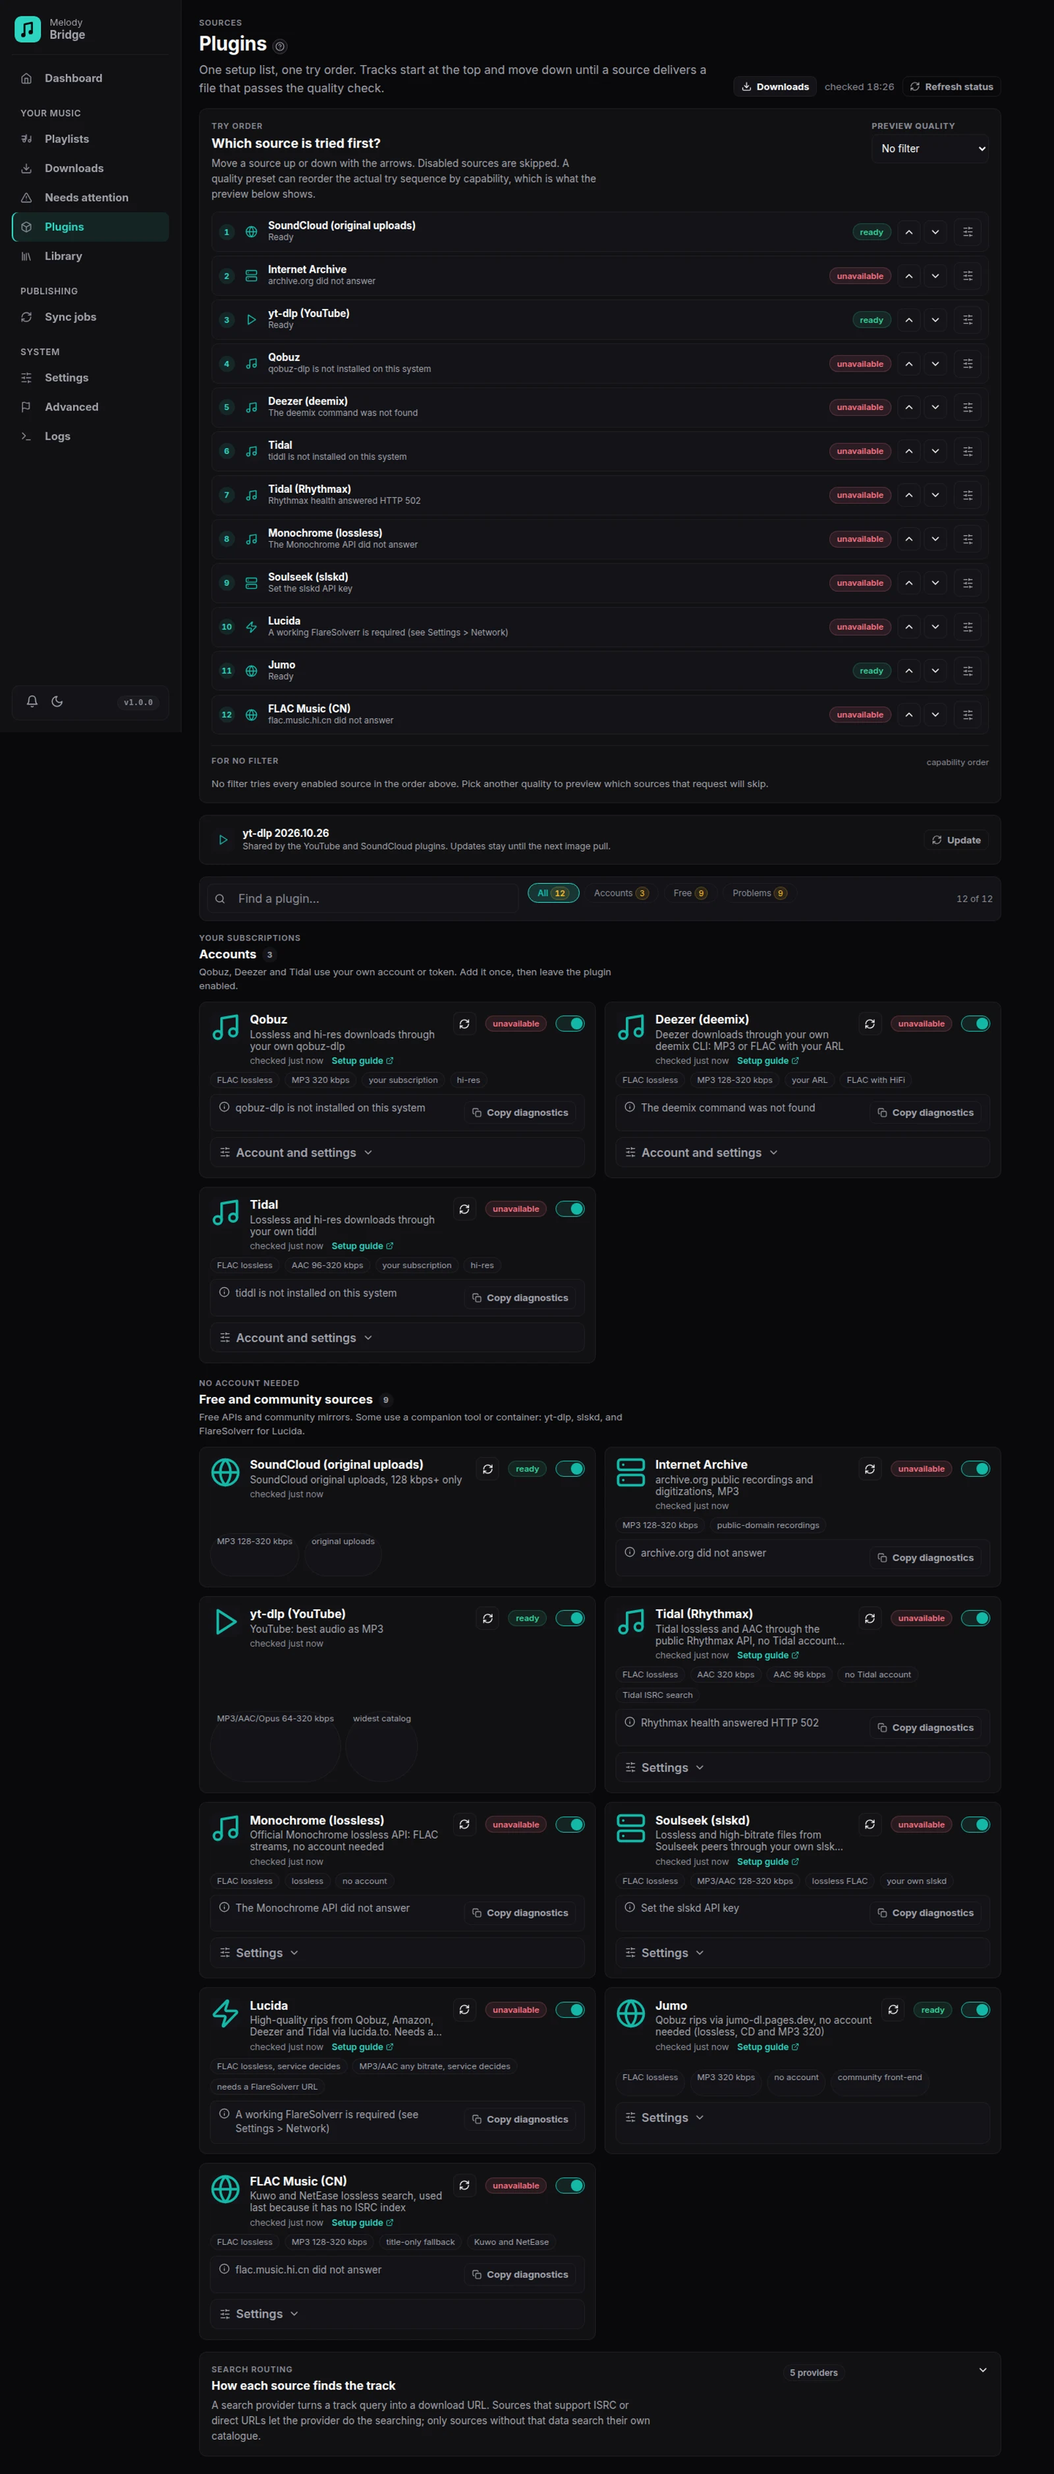
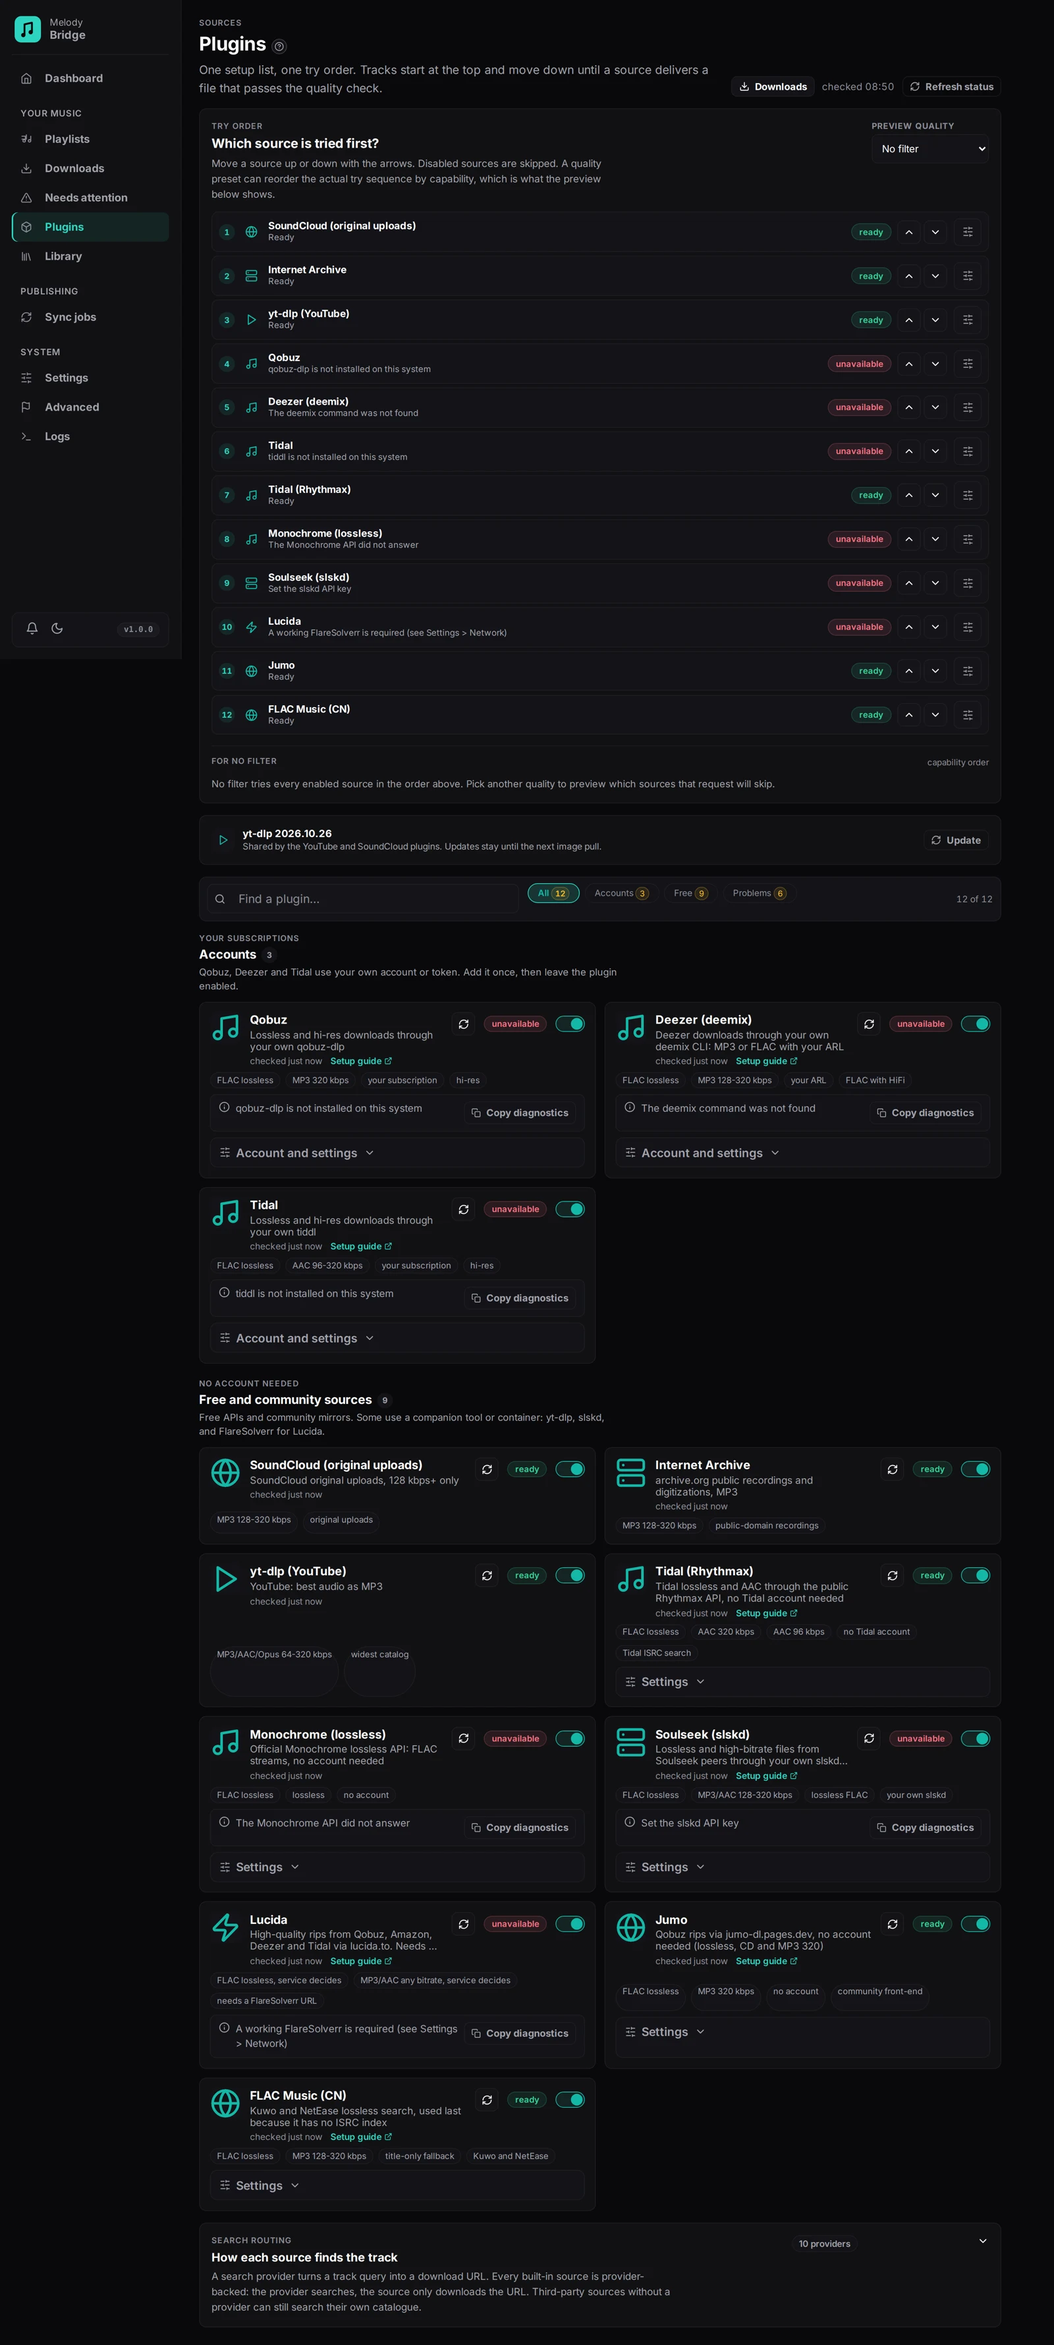
docs(search): document the provider-backed self-search sources
The Plugins panel now shows ten providers, including the five self-search ones. Drop the old claim that those sources search inside the downloader and refresh the screenshot.

diff --git a/docs/developer.md b/docs/developer.md
@@ -137,16 +137,19 @@ public interface ISearchProvider
 
 `DownloaderSearchInfo` declares the source's route. `Self` means the source
 searches its own catalogue with the listed data, `Provider` means a provider
-must resolve the URL, and `None` means direct URLs only. `FallbackOnly` keeps
-a source behind every ordinary source in the quality router, whatever its
-capabilities say.
+must resolve the URL, and `None` means direct URLs only. Every built-in source
+is `Provider`: the five self-search sources have their own providers too, and
+their downloaders only download a URL. `Self` remains for third-party plugins that
+still search inside the downloader. `FallbackOnly` keeps a source behind every
+ordinary source in the quality router, whatever its capabilities say.
 
 `SearchProviderRegistry` is the router. The waterfall and the manual source
 picker both call it instead of `IDownloader.SearchAsync` directly. It uses a
 provider for `Provider` sources, the source's own search for `Self` sources,
-and nothing for `None`. A provider that throws or times out is a miss, never
-a crash. The Plugins page renders the same metadata in
-`SearchProviderPanel`, so the map cannot drift from the routing rules.
+and nothing for `None`. No built-in source takes the `Self` path. A provider
+that throws or times out is a miss, never a crash. The Plugins page renders the
+same metadata in `SearchProviderPanel`, so the map cannot drift from the
+routing rules.
 
 The router validates its wiring. Duplicate provider ids and a provider that
 lists the same target twice throw at startup. A target that names no
@@ -161,18 +164,23 @@ Jumo answer for the Jumo downloader.
 Each target also carries a `SearchTier`: `Official`, `Ripper`,
 `UnofficialCatalog` or `SelfSearch`. `ProviderFirstOrder()` turns the target
 matrix into one rank per downloader: official targets first, then Lucida on
-their URLs, then Jumo and Monochrome, then the sources that search
-themselves. `DownloadManager` applies that rank after its fallback,
-controlled-quality and health ordering, so a degraded official source still
-loses to a healthy one. The `search_official_first` setting (Prefer official
+their URLs, then the unofficial catalogues. Self-search targets get no rank,
+so those sources keep the user's order after the ranked ones. `DownloadManager`
+applies that rank after its fallback, controlled-quality and health ordering,
+so a degraded official source still loses to a healthy one. The `search_official_first` setting (Prefer official
 sources on the Advanced page) defaults on; turning it off restores the pure
 source order.
 
-Every built-in catalogue has its own provider: `QobuzSearchProvider`,
-`DeemixSearchProvider`, `JumoSearchProvider` and `MonochromeSearchProvider`
-live in `MelodyBridge.Infrastructure/SearchProviders/`. Each owns the query to
+Every built-in source is provider-backed. The provider classes live in
+`MelodyBridge.Infrastructure/SearchProviders/`: `QobuzSearchProvider`,
+`DeemixSearchProvider`, `JumoSearchProvider`, `MonochromeSearchProvider`,
+`ArchiveOrgSearchProvider`, `FlacMusicSearchProvider`, `SlskdSearchProvider`,
+`SoundCloudSearchProvider` and `YtDlpSearchProvider`. Each owns the query to
 URL step and the ranking; the downloader keeps the download. Tidal's provider
-lives with its client in `Infrastructure/Tidal/`.
+lives with its client in `Infrastructure/Tidal/`. The five self-search
+providers (`archiveorg`, `flacmusic`, `slskd`, `soundcloud`, `ytdlp`) declare
+`SearchTier.SelfSearch`, so the official-first order leaves them where the user
+put them.
 
 Lucida deliberately has no provider. It consumes the official Qobuz, Tidal and
 Deezer URLs that those providers already resolved, so `LucidaSearchProvider` is
@@ -187,8 +195,10 @@ one and falls back to the text search.
 Where the search and the download share mutable state, a session class owns
 it so both sides see the same value: `QobuzSession` (token, tool config, auth
 verdict), `JumoSession` (client, region cache, availability) and
-`LucidaSession` (challenge solver, send with refresh, availability). Deezer
-and Monochrome had no shared state and need only their client and a base URL.
+`LucidaSession` (challenge solver, send with refresh, availability),
+`FlacMusicSession` (base URL, platform setting, health) and `SlskdSession`
+(API key, base URL, JSON plumbing, downloads folder). Deezer and Monochrome
+had no shared state and need only their client and a base URL.
 The provider and the downloader are registered as singletons over the same
 session, so a token rejection or a throttled search updates the plugin card
 immediately.
@@ -216,8 +226,9 @@ token rejection is reported as a miss and left uncached.
 
 `FallbackOnly` is used by `FlacMusicDownloader`. The flac.music.hi.cn source
 has no ISRC index and the site's 128 kbps tier sometimes serves AAC, so it is
-the last resort even for a Lossless request. Its `SearchInfo` is `Self` with
-text data; the Plugins page marks it as a fallback.
+the last resort even for a Lossless request. `FlacMusicSearchProvider` owns
+its title search, and its `SearchInfo` is `Provider` with text data; the
+Plugins page marks it as a fallback.
 
 `PluginCapabilities` is the plugin's honest manifest: every quality level it
 can deliver (container, the bitrate band it arrives in, whether the content is
@@ -316,25 +327,28 @@ Implement this to add a download source. Built-in plugins:
 |---|---|---|---|
 | `LucidaDownloader` | `lucida` | lucida.to (Qobuz NL, Amazon Music, Deezer, Tidal, SoundCloud, Yandex) | High quality rips; needs a working Cloudflare solver, otherwise skipped; no own searcher in the default composition, it consumes the official Qobuz, Tidal and Deezer URLs; single-track page tokens are base64-encoded twice and must be decoded before `/api/load`; the load API has no quality parameter, so its manifest is honest-but-uncontrollable |
 | `MonochromeDownloader` | `monochrome` | tracks.monochrome.st (official Monochrome API) | Lossless FLAC streams over a plain GET, no account needed; search hits carry an ISRC, and an exact match is accepted as that recording even when the title differs; the base URL is configurable per plugin for mirrors |
-| `SlskdDownloader` | `slskd` | Soulseek, through the user's own slskd instance | Lossless FLAC and high-bitrate MP3/AAC from peers; search and transfer run over slskd's REST API with an API key; locked files and undeclared containers are skipped; the finished file moves out of slskd's downloads folder, whose path the plugin reads from slskd's own options; unavailable until the URL and key are set and slskd is logged in |
+| `SlskdDownloader` | `slskd` | Soulseek, through the user's own slskd instance | Lossless FLAC and high-bitrate MP3/AAC from peers; `SlskdSearchProvider` searches the network over slskd's REST API, the downloader enqueues the transfer; locked files and undeclared containers are skipped; the finished file moves out of slskd's downloads folder, whose path the plugin reads from slskd's own options; unavailable until the URL and key are set and slskd is logged in |
 | `QobuzDownloader` | `qobuz` | qobuz-dlp (shipped in the Docker image) | Lossless and hi-res from a paid Qobuz plan; `QobuzSearchProvider` searches the official API (bundle scrape plus a user token) and also supplies Lucida and Jumo, the download runs through the CLI into a hidden per-track folder; the plugin seeds the CLI config (app id, private key, secrets) and its token file, so no interactive login is needed; unavailable until the command and a valid token are found |
 | `TidalDownloader` | `tidal` | tiddl (shipped in the Docker image) | Lossless and hi-res from the user's own Tidal session; the shared `TidalSearchProvider` resolves the URL (ISRC first), the download runs through `tiddl download url` with the tier mapped onto the requested band; unavailable until the command and a logged-in tiddl session are found, or when that session expired |
 | `RhythmaxDownloader` | `rhythmax` | tidal.odskyler.com (public Rhythmax hifi API) | No Tidal account needed; the same `TidalSearchProvider` supplies the URL, the plugin asks `/manifests` for a DASH stream, downloads the init and media segments, and remuxes FLAC (ffmpeg copy) or keeps AAC as m4a; LOW/HIGH/LOSSLESS map to 96/320/16-bit FLAC; the public account pool can report preview/dead/rate limited, which is surfaced as unavailability instead of retried forever |
-| `FlacMusicDownloader` | `flacmusic` | flac.music.hi.cn (Kuwo and NetEase) | Last-resort fallback with no ISRC index, so it searches its own catalogue by title; search and `getUrl` are POST endpoints with a short-lived sign, the audio comes direct from the CDN; FLAC and MP3 128/320, and some Kuwo 128 rows actually return AAC (the plugin reports the mismatch and the waterfall can try the other platform); `FallbackOnly` keeps it behind every curated source |
+| `FlacMusicDownloader` | `flacmusic` | flac.music.hi.cn (Kuwo and NetEase) | Last-resort fallback with no ISRC index; `FlacMusicSearchProvider` searches by title and the downloader consumes its URL; search and `getUrl` are POST endpoints with a short-lived sign, the audio comes direct from the CDN; FLAC and MP3 128/320, and some Kuwo 128 rows actually return AAC (the plugin reports the mismatch and the waterfall can try the other platform); `FallbackOnly` keeps it behind every curated source |
 | `DeemixDownloader` | `deemix` | deemix CLI (shipped in the Docker image, runs on Node) | Deezer MP3/FLAC with the user's ARL; the search runs against Deezer's public API, the download through the CLI; the ARL setting is written into deemix's config (through `DEEMIX_DATA_DIR`) before every run, so the CLI never prompts; runs are serialized and the finished file moves out of the downloads folder |
 | `JumoDownloader` | `jumo` | jumo-dl.pages.dev (community Qobuz front-end) | No account needed; uses the same Qobuz album and track ids as Qobuz, so the Qobuz provider can hand it a `jumo:` URL without a second search; the Jumo provider remains the fallback without a Qobuz token; stream descriptors come from the service's guarded API (request-context headers plus ECDH/AES-GCM encrypted responses), the audio comes direct from the signed Qobuz CDN URLs and is AES-CTR decrypted locally; lossless lands as native FLAC, MP3 320 as plain MP3; the service rate limits (429) and can refuse some networks (403), so the plugin reports unavailability instead of hammering it |
-| `SoundCloudDownloader` | `soundcloud` | SoundCloud (via yt-dlp `scsearch`) | Original uploads, often 320 kbps; top-5 ranked; rejects files under 128 kbps |
-| `ArchiveOrgDownloader` | `archiveorg` | Internet Archive (public JSON APIs) | Public-domain and community recordings; picks the matching file inside a multi-track item, not the first one; rejects files under 128 kbps |
-| `YtDlpDownloader` | `ytdlp` | YouTube (via yt-dlp) | Widest fallback; audio-only best stream, top-5 ranked by match and duration; explicit formats transcode to the requested cap |
+| `SoundCloudDownloader` | `soundcloud` | SoundCloud (via yt-dlp `scsearch`) | Original uploads, often 320 kbps; `SoundCloudSearchProvider` ranks the top five; the downloader is URL-only and rejects files under 128 kbps |
+| `ArchiveOrgDownloader` | `archiveorg` | Internet Archive (public JSON APIs) | Public-domain and community recordings; `ArchiveOrgSearchProvider` ranks the files inside every matching item, the downloader streams the chosen MP3; rejects files under 128 kbps |
+| `YtDlpDownloader` | `ytdlp` | YouTube (via yt-dlp) | Widest fallback; `YtDlpSearchProvider` ranks the top five by match and duration, the downloader fetches the URL; explicit formats transcode to the requested cap |
 
-The catalogue search for Qobuz, Deezer, Jumo and Monochrome sits in its own
-provider under `SearchProviders/`; the downloader only downloads. Their
-`SearchInfo` says `Provider` with the data the provider reads. Qobuz, Jumo and
-Lucida share a session with the downloader for token, region or solver state;
-Deezer and Monochrome need only their client and the base URL helper. Lucida is
-the exception: it is a pure URL consumer, so its `SearchInfo` declares `Url`
-data and it appears as a target of the official providers. A new source
-follows the same split: provider for query to URL, downloader for URL to file.
+The catalogue search for every built-in source sits in its own provider under
+`SearchProviders/`; the downloader only downloads. Tidal's provider lives with
+its client in `Infrastructure/Tidal/`. Their `SearchInfo` says `Provider` with
+the data the provider reads. Where the search and the download share state, a
+session class owns it: `QobuzSession`, `JumoSession` and `LucidaSession` for
+token, region or solver state, and `FlacMusicSession` and `SlskdSession` for the
+site or slskd connection. The rest need only a client or the shared yt-dlp
+process. Lucida is the exception: it is a pure URL consumer, so its `SearchInfo`
+declares `Url` data and it appears as a target of the official providers. A new
+source follows the same split: provider for query to URL, downloader for URL to
+file.
 
 Place new implementations in `MelodyBridge.Infrastructure/Downloaders/` and register via `services.AddSingleton<IDownloader, YourPlugin>()`. A plugin that ships its own protocol client or byte-level helpers lives in its own folder next to it instead (`Infrastructure/Lucida/`, `Infrastructure/Jumo/`) and registers the same way. Quality-gate downloads against the requested `DownloadQuality` band so bad rips never enter the library.
 

diff --git a/docs/concepts.md b/docs/concepts.md
@@ -95,11 +95,11 @@ Sources fall into four groups:
 | Official catalogue | The provider reads an official ISRC index and returns the source's own URL. Tidal and Rhythmax share the public Tidal ISRC searcher; Qobuz uses your token; Deezer uses its public API |
 | Official URL, community downloader | Lucida has no searcher. It consumes the Qobuz, Tidal or Deezer URL an official provider already resolved, and can also rip SoundCloud, Amazon and Yandex links |
 | Unofficial catalogue | Jumo is a Qobuz front-end: it uses the same Qobuz album and track ids, so the Qobuz hit becomes a `jumo:` URL without a second search. Monochrome has its own snowflake ids and searches its catalogue by ISRC first |
-| Self-search | The source searches its own catalogue and has no ISRC-indexed provider route. Soulseek, SoundCloud, Internet Archive, yt-dlp and FLAC Music work this way; the Chinese fallback searches by title only because it has no ISRC index |
+| Self-search | A provider searches the source's own catalogue by title because the service has no ISRC index. Soulseek, SoundCloud, Internet Archive, yt-dlp and FLAC Music each have their own provider; the downloader only downloads the URL. The Chinese fallback searches by title only and stays last |
 
 A provider target can carry a priority, a tier and a provider can carry its own
 priority. Official targets run first, then the community downloader on their
-URLs, then the unofficial catalogues, then the self-search sources. Inside a
+URLs, then the unofficial catalogues, then the self-search providers. Inside a
 tier the user's source order still decides. **Prefer official sources** on the
 Advanced page turns this off and restores the pure source order. The Plugins
 page shows the tier and any routing problem it finds, such as a target that
@@ -146,9 +146,9 @@ Advanced page.
 | Tidal | Lossless and hi-res files from your own Tidal session, through tiddl. See [Tidal and tiddl](/tidal) |
 | Tidal (Rhythmax) | Tidal FLAC and AAC through the public Rhythmax API, no Tidal account needed. See [Tidal and tiddl](/tidal#no-tidal-account-rhythmax) |
 | Jumo | Qobuz rips through the community front-end jumo-dl.pages.dev, no account needed. See [Jumo (Qobuz rips)](/jumo) |
-| SoundCloud | Original uploads by the artist, usually 128 kbps or better |
-| Internet Archive | Public recordings and digitizations from archive.org |
-| yt-dlp | YouTube: audio-only best stream, top-5 ranked by match and duration |
+| SoundCloud | Original uploads by the artist, usually 128 kbps or better; the SoundCloud provider ranks the top five |
+| Internet Archive | Public recordings and digitizations from archive.org; the archive provider scans every matching item |
+| yt-dlp | YouTube: audio-only best stream; the YouTube provider ranks the top five by match and duration |
 | FLAC Music (CN) | Kuwo and NetEase lossless search, title-only fallback. See [FLAC Music fallback](/flacmusic) |
 
 ### Finding the right recording

diff --git a/docs/reference.md b/docs/reference.md
@@ -465,12 +465,14 @@ it reads (ISRC, title and artist) and the source cards it can search. Each
 provider carries a tier: **official**, **ripper**, **unofficial** or **self**.
 When two providers target the same source, the card marks the one the router
 uses as **primary**. Lucida has no searcher of its own; it appears as a target
-of the official providers. The sources that search themselves are listed
-separately,
-with their data and any note such as "title-only fallback". A source marked
-**fallback** only runs after every other source. A direct-URL source has no
-search at all. If a source declares a provider search but no provider targets
-it, the card calls that out in red.
+of the official providers. The **self** tier covers the five sources that
+search their own catalogue by title: Soulseek, SoundCloud, Internet Archive,
+yt-dlp and FLAC Music. Each one has its own provider, so every built-in source
+is provider-backed. A source marked **fallback** only runs after every other
+source. A direct-URL source has no search at all. If a source declares a
+provider search but no provider targets it, the card calls that out in red.
+Third-party sources that still search inside the downloader are listed
+separately under **Sources that search themselves**.
 
 - Each plugin card shows its capability badges (formats, bitrate range) and a
   **Settings** row when it has options. The row opens a panel with the fields

diff --git a/docs/flacmusic.md b/docs/flacmusic.md
@@ -2,9 +2,10 @@
 
 FLAC Music is the last source in the shipped waterfall. It searches a
 Chinese music front-end for tracks on Kuwo and NetEase Cloud Music by title
-and artist. It has no ISRC index and no stable public track URL, so it is the
-one built-in source that searches its own catalogue. MelodyBridge keeps it
-behind every other source, even when you ask for Lossless.
+and artist. It has no ISRC index and no stable public track URL, so a dedicated
+provider searches its catalogue by title; the downloader only downloads the
+URL it gets back. MelodyBridge keeps it behind every other source, even when
+you ask for Lossless.
 
 Use it when a track is missing from the curated sources, not as a primary
 source. The site's quality labels do not always match the bytes it serves,
